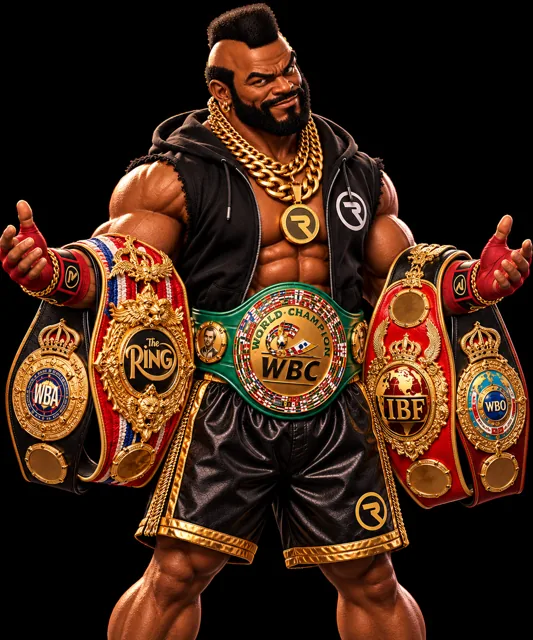
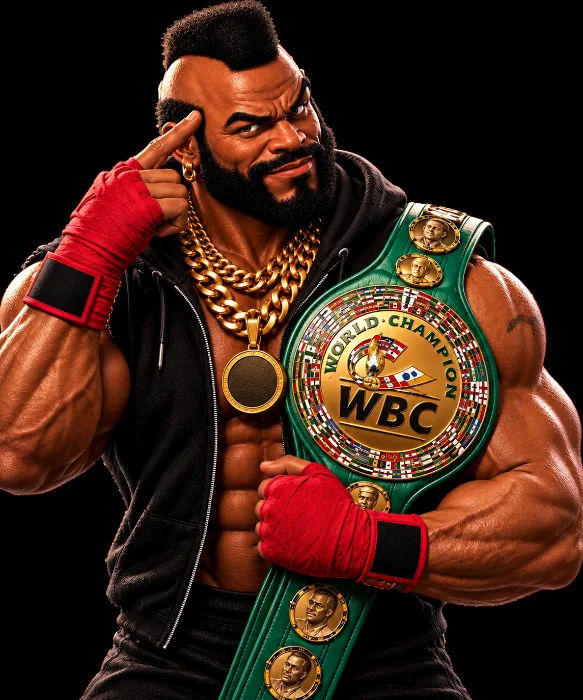
Champ: Sammy's seven new pictures in the rotation
Replaces the three old pictures; same 45-minute rotation by the clock.
Shrunk to 700px tall webp (62-113 KB each).

Claude-Session: https://claude.ai/code/session_019NarVR236H5xX48Wuo3Li1

diff --git a/src/app/(crm)/champ/page.tsx b/src/app/(crm)/champ/page.tsx
@@ -32,9 +32,9 @@ const TOOL_LABEL: Record<string, string> = {
 };
 
 
-// Champ's pictures (Sammy, 10/10/2026), one at a time, changing every 45
-// minutes. Worked out from the clock, so everyone sees the same one.
-const PHOTOS = ["/champ/champ-1.webp", "/champ/champ-2.webp", "/champ/champ-3.webp"];
+// Champ's pictures (Sammy; the seven of 11/10/2026), one at a time, changing
+// every 45 minutes. Worked out from the clock, so everyone sees the same one.
+const PHOTOS = Array.from({ length: 7 }, (_, i) => `/champ/champ-${i + 1}.webp`);
 const ROTATE_MS = 45 * 60e3;
 const photoNow = () => PHOTOS[Math.floor(Date.now() / ROTATE_MS) % PHOTOS.length];
 

diff --git a/docs/improvement-list.md b/docs/improvement-list.md
@@ -25,6 +25,6 @@ Sammy says so. Newest at the bottom.
 | 18 | 10/10/2026 | Assign each member a coach, and alert the coach when they haven't been in for X days | **Built 10/10/2026.** Coach on the contact page; nightly `activity` sync stage (03:12) reads 60 days of ticked-in TeamUp attendances and Kisi door entries for everyone in a few calls (8s live); `contact.activity` (last in, last 30, previous 30); task plus email to the coach (front desk if none) past the threshold, default 20 days, editable on Members ("Tell the coach after N days"); once per lapse, cleared when they come back; the first run marked 104 already-lapsed without emailing. Members shows Last in in red past the threshold. **10/10 later: priority and a suggested action** (Sammy: "mark people as a priority and based on their activity suggest an action"). `src/lib/inactivity.ts` grades every lapsed member High / Medium / Low with a reason and what the coach or front desk should do, following `docs/reference/sleeping-members.md` (new members and regulars who stopped first; long-standing occasional trainers left alone; never an offer, never a mention of payment). Shown on Members (chip, "Lapsed" filter sorted worst first), on the contact page and in the coach's task and email. Staff-only advice; nothing goes to the member. Original note: From a GymGrow chat Sammy shared (10/10). Build on what's there: attendance from TeamUp and Kisi (accountability.ts, one TeamUp call per person), the silence signal, and staff tasks. Needs: a coach field on the contact (editable on the contact page and Members), an "inactive after X days" setting, a nightly attendance stage for every active member rather than only the programme (its own sync stage, since it's one TeamUp call each), then a task plus an email to the coach when someone passes X days, once per lapse. Not started. |
 | 19 | 10/10/2026 | Class, attendance and coaching-hours reports | **Built 10/10/2026 as Reports → Attendance** (Sammy's order: popular classes, then top and lowest member attendance, then fastest declining; coaching hours dropped, he knows who takes what). Classes by name and slot over 60 days with sessions, average ticked in and fill against capacity; members by sessions in the last 30 days against the 30 before. PDF, email and WhatsApp send like the others; no schedule yet. Original note: From the same chat. Extra tabs on Reports: popular and unpopular classes (TeamUp events with attendance counts, by class name and time slot), each member's attendances over a chosen period (needs item 18's nightly attendance read), and coaching hours by coach (TeamUp events by instructor). All read-only from TeamUp; same PDF and WhatsApp send as the other reports if wanted. Not started. |
 | 20 | 10/10/2026 | Waiver and emergency contact from TeamUp; who's in the gym right now without one | **Built 10/10/2026.** After a medical emergency where the member had no waiver or emergency contact on file. Checked against TeamUp's API the same day: `/waiver_agreements` (863 signed) and `/customer_form_submissions` (sign-up form answers, emergency contact fields marked by `system_use`) give what's needed. A nightly `safety` sync stage (03:14 UTC) puts the newest signed waiver and the emergency contact (name, phone, relationship, date of birth) on `contact.safety`; the contact page shows a Safety card (tap-to-call emergency number), Members has a "No waiver" filter and chip. **"In the gym now"** on Members: press "Who's in" and the CRM reads, live, everyone ticked into (or booked on) a class that's on now and everyone through the Kisi door in the last 1–6 hours, each with waiver and emergency contact, gaps at the top. Kisi logs entries not exits, so it's "came in within the window". Fixes go in TeamUp. **10/10 later (Sammy): window at most 1.5 hours (30 min, 1 h or 1.5 h; default 1.5), and the point is an alert:** a red strip at the top of every staff screen whenever someone in the gym has no waiver or emergency contact, checked every 3 minutes while the CRM is open (TeamUp and Kisi read at most every 2 minutes). Staff tick "Spoke to them" and the person drops off for the rest of the day (`safety.checked` event); if TeamUp still has no waiver on their next visit, they show again. Nothing goes to the member. **Then:** the alert shows three names and a "List everyone" button to a Safety page (`/safety`, not on the sidebar, Sammy's call): everyone in the gym now with ticks, and below it every active member missing a waiver or emergency contact, to work through. |
-| 21 | 10/10/2026 | Champ: a Claude chat for staff to ask about any member, class, entry or TeamUp detail, plus training and sales questions | **Built 10/10/2026.** Sammy's choices: for staff less familiar with the gym's systems; read-only for TeamUp (and everything else); member-level payments yes, gym totals and revenue never; Claude Sonnet 5.5 (roughly 2–5p a question); chats saved and owners can see everyone's. Sidebar tab "Champ" under Today (renamed **Ask Champ**, in red, 11/10). 14 read-only look-ups (people, profiles, member lists with filters, head counts, leads, pipeline, trials, classes and registers, a person's bookings and Kisi door entries, who's in now, class popularity, and a guarded TeamUp read for anything else, invoices and payments excluded). Off-topic questions are turned down. **Photos added 10/10:** Sammy's three Champ pictures (`public/champ/champ-1..3.webp`) sit above the chat box and change every 45 minutes. **Conduct rule (10/10):** strictly Sammy's topics only; racist, discriminatory or misogynistic questions are refused, with a warning the first time that a manager will be told next time, and an email to the Owner/Manager logins every time after (flags kept in `champ_flags`). **Then (10/10): Train Champ**, a management-only page (Owner or Manager logins; separate management logins to come) reached from the Champ screen: write notes (equipment, class formats, coaching standards, sales, house rules, who's who) and upload PDFs, Word (.docx) or text files up to 20 MB. Champ reads everything switched on before every answer and treats it as Round One's way, flagging only genuine safety concerns. Up to 400,000 characters in total; each entry can be edited, switched off or removed. |
+| 21 | 10/10/2026 | Champ: a Claude chat for staff to ask about any member, class, entry or TeamUp detail, plus training and sales questions | **Built 10/10/2026.** Sammy's choices: for staff less familiar with the gym's systems; read-only for TeamUp (and everything else); member-level payments yes, gym totals and revenue never; Claude Sonnet 5.5 (roughly 2–5p a question); chats saved and owners can see everyone's. Sidebar tab "Champ" under Today (renamed **Ask Champ**, in red, 11/10). 14 read-only look-ups (people, profiles, member lists with filters, head counts, leads, pipeline, trials, classes and registers, a person's bookings and Kisi door entries, who's in now, class popularity, and a guarded TeamUp read for anything else, invoices and payments excluded). Off-topic questions are turned down. **Photos added 10/10:** Sammy's Champ pictures (`public/champ/champ-1..7.webp`, seven since 11/10) sit above the chat box and change every 45 minutes. **Conduct rule (10/10):** strictly Sammy's topics only; racist, discriminatory or misogynistic questions are refused, with a warning the first time that a manager will be told next time, and an email to the Owner/Manager logins every time after (flags kept in `champ_flags`). **Then (10/10): Train Champ**, a management-only page (Owner or Manager logins; separate management logins to come) reached from the Champ screen: write notes (equipment, class formats, coaching standards, sales, house rules, who's who) and upload PDFs, Word (.docx) or text files up to 20 MB. Champ reads everything switched on before every answer and treats it as Round One's way, flagging only genuine safety concerns. Up to 400,000 characters in total; each entry can be edited, switched off or removed. |
 | 22 | 11/10/2026 | AI-drafted replies to WhatsApp messages, the same way as email enquiries | Sammy, 11/10: "I want to draft replies in the same way we have done the enquiries email". When a WhatsApp message comes in on the real number, Claude drafts a reply from the gym facts (never invents prices or times); staff read, edit and press Send with a confirm, nothing sends on its own. WhatsApp's 24-hour rule applies: a free-text reply only within 24 hours of their last message, so the draft shows a **live countdown** of the time left to reply (Sammy, 11/10: "make the reply time limit known, maybe with a counter"), turning red near the end, and after that offers an approved template instead. Staff also answer on the WhatsApp Business app on the gym phone (coexistence), so a reply sent from the phone should close the draft (needs the phone's replies coming into the CRM). Build after the real number is connected (wrap-up item 2). Not started. |
 | 23 | 11/10/2026 | Site comments: Today, Champ, Program members, Meta pipeline | **Built 11/10/2026.** Today: big red **Ask Champ** button at the top; Needs you top left with the four tiles 2×2 on the right; charts, then Upcoming trials and Recent activity side by side. Sidebar: **Ask Champ**, the only red item. Champ: the picture at the top of the chat panel, bigger, CHAMP under it. Program members: the list on top, messages underneath. Meta pipeline: email enquiry senders stay off it (contacts still; **Put on pipeline** on their page adds tag `on-pipeline`). **Remove** (Owner/Manager): `removeContact` sets `contact.removed`; the store hides them, their appointments and tasks from every screen; their runs stop, future trials are cancelled quietly, `fire()` skips them, mailouts/accountability/inactivity/Champ skip them; **Contacts → Removed** and **Put back** (`restoreContact`); the form or a booking brings them back. |

diff --git a/CLAUDE.md b/CLAUDE.md
@@ -189,7 +189,7 @@ In place so far:
   Manager logins are emailed with the question and a link to the chat
   (`/champ?chat=<id>`). Ordinary questions about women, faith, disability
   or age (Ladies Boxfit, Ramadan, adapting for a member) are not flagged.
-  Champ's three pictures are `public/champ/champ-1..3.webp` (shrunk from Sammy's originals), one shown above the chat box, changing every 45 minutes by the clock.
+  Champ's seven pictures are `public/champ/champ-1..7.webp` (shrunk from Sammy's originals, replaced 11/10), one shown above the chat box, changing every 45 minutes by the clock.
   **Train Champ** (`/champ/train`, `champKnowledge.ts`, management
   only: Owner or Manager staff role): notes and uploaded documents (PDF,
   .docx, text; files go straight to the private `champ-docs` bucket by a
